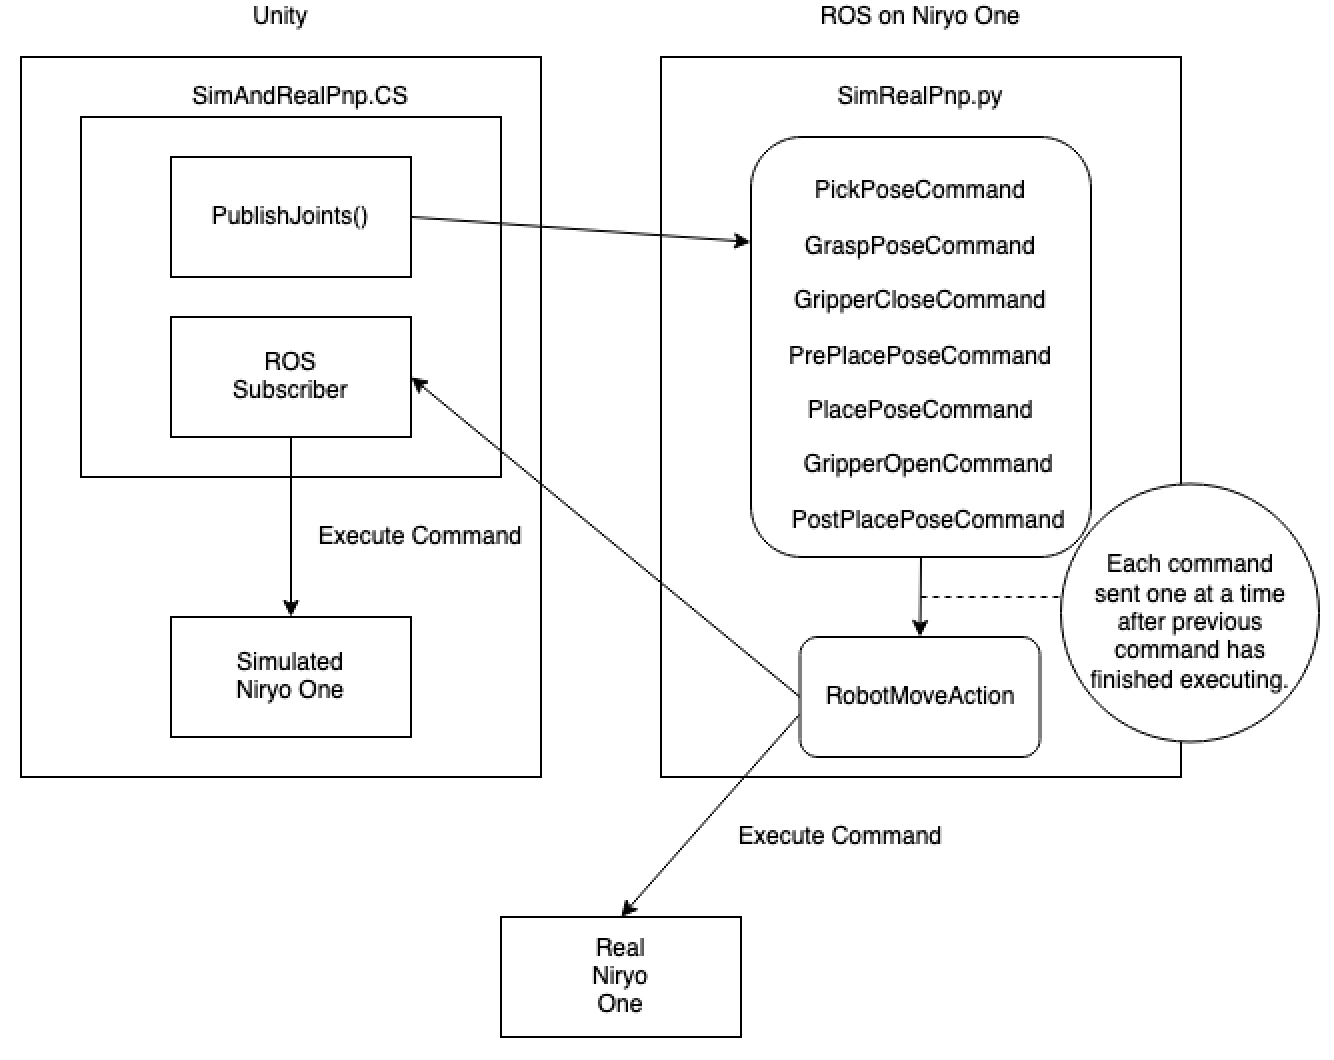
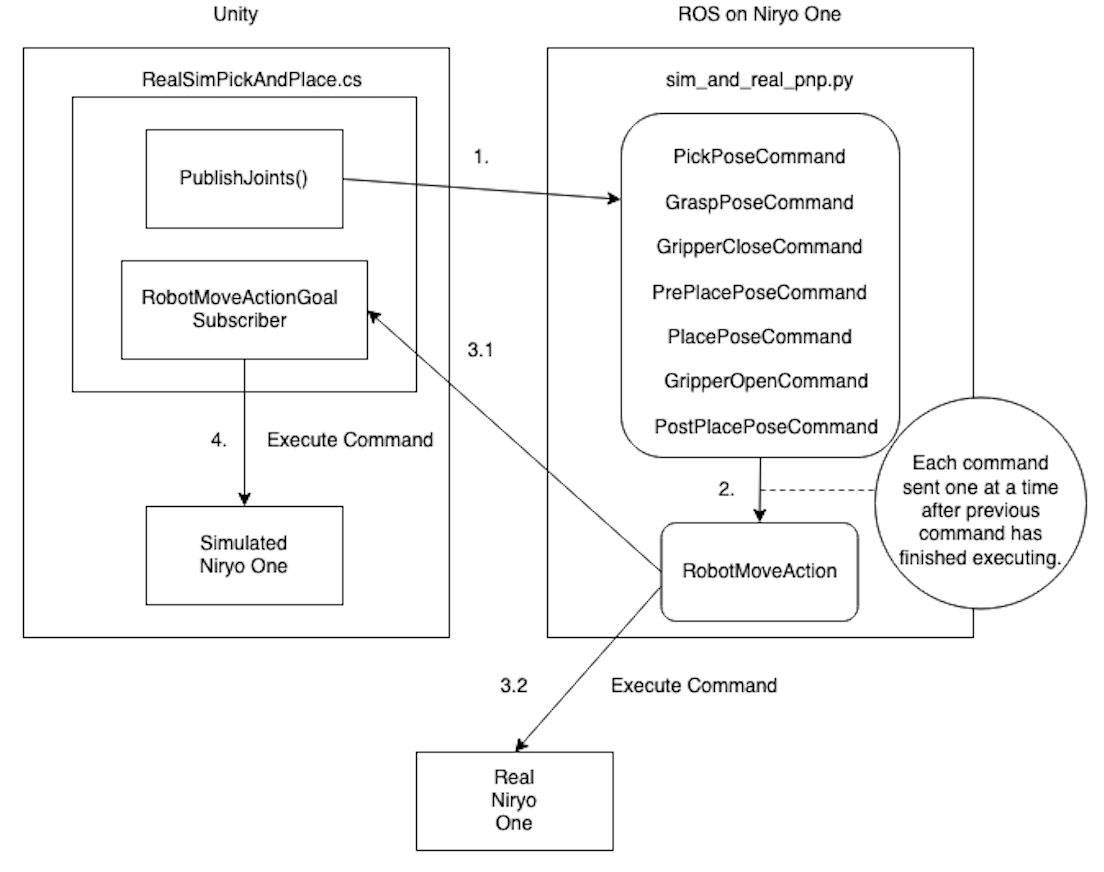
PR comments, gifs, images, and comments.

diff --git a/tutorials/pick_and_place/Scripts/RealSimPickAndPlace.cs b/tutorials/pick_and_place/Scripts/RealSimPickAndPlace.cs
@@ -73,7 +73,11 @@ public class RealSimPickAndPlace : MonoBehaviour
 
 
     /// <summary>
-    /// 
+    ///     Publish the robot's current joint configuration, the target object's
+    ///     position and rotation, and the target placement for the target object's
+    ///     position and rotation.
+    ///
+    ///     Includes conversion from Unity coordinates to ROS coordinates, Forward Left Up
     /// </summary>
     public void PublishJoints()
     {
@@ -146,9 +150,11 @@ public class RealSimPickAndPlace : MonoBehaviour
     }
 
     /// <summary>
-    /// 
+    ///   Execute robot commands receved from ROS Subscriber.
+    ///   Gripper commands will be executed immeditately wihle trajectories will be 
+    ///   executed in a coroutine.
     /// </summary>
-    /// <param name="robotAction"></param>
+    /// <param name="robotAction"> RobotMoveActionGoal of trajectory or gripper commands</param>
     void ExecuteRobotCommands(RobotMoveActionGoal robotAction)
     {
         if (robotAction.goal.cmd.cmd_type == TRAJECTORY_COMMAND_EXECUTION)
@@ -171,18 +177,13 @@ public class RealSimPickAndPlace : MonoBehaviour
     }
 
     /// <summary>
-    ///     Execute the returned trajectories from the MoverService.
+    ///     Execute trajectories from RobotMoveActionGoal topic.
     /// 
-    ///     The expectation is that the MoverService will return four trajectory plans,
-    ///         PreGrasp, Grasp, PickUp, and Place,
-    ///     where each plan is an array of robot poses. A robot pose is the joint angle values
-    ///     of the six robot joints.
-    /// 
-    ///     Executing a single trajectory will iterate through every robot pose in the array while updating the
-    ///     joint values on the robot.
+    ///     Execution will iterate through every robot pose in the trajectory pose 
+    ///     array while updating the joint values on the simulated robot.
     /// 
     /// </summary>
-    /// <param name="trajectories"></param>
+    /// <param name="trajectories"> The array of poses for the robot to execute</param>
     private IEnumerator ExecuteTrajectories(RobotTrajectory trajectories)
     {
         // For every robot pose in trajectory plan

diff --git a/tutorials/pick_and_place/ROS/src/niryo_moveit/scripts/sim_real_pnp.py b/tutorials/pick_and_place/ROS/src/niryo_moveit/scripts/sim_real_pnp.py
@@ -69,8 +69,6 @@ def plan_trajectory(move_group, destination_pose, start_joint_angles):
         """.format(destination_pose, start_joint_angles)
         raise Exception(exception_str)
 
-    # plan = planCompat(move_group.plan())
-
     trajectory_plan = TrajectoryPlan()
     trajectory_plan.trajectory = planCompat(move_group.plan())
 

diff --git a/tutorials/pick_and_place/4_pick_and_place.md b/tutorials/pick_and_place/4_pick_and_place.md
@@ -103,29 +103,33 @@ From here we see that the `RobotMoveGoal.RobotMoveCommand.ToolCommand.cmd_type` 
 
 ## Differences From Part 3
 
-**Part 3 Flow:**
+**Part 3  - Purely Simulated - Flow:**
 
 ![](img/4_old_flow.png)
 
-- `TrajectoryPlanner` sends ServiceMessage with robot pose, target cube coordinates, and target destination coordinates to `mover.py`.
-- `mover.py` calculates the four trajectories, adds them to an array, and returns the array to `TrajectoryPlanner`.
-- `TrajectoryPlanner` then executes the trajectories one at a time on the simulated Niryo One.
+1. `TrajectoryPlanner` sends ServiceMessage with robot pose, target cube coordinates, and target destination coordinates to `mover.py`.
+1. `mover.py` calculates the four trajectories, adds them to an array, and returns the array to `TrajectoryPlanner`.
+1. `TrajectoryPlanner` then executes the trajectories one at a time on the simulated Niryo One.
 
-**Part 4 Flow:**
+**Part 4 - Simulated and Real - Flow:**
 
 ![](img/4_new_flow.png)
 
-- `RealSimPickAndPlace.cs` publishes robot pose, target cube coordinates, and target destination coordinates to `sim_real_pnp` topic.
-- `sim_and_real_pnp.py,`as a ROS subscriber node, reads from the `sim_real_pnp` topic, plans the trajectories, and sends the action goals one at a time to `RobotMoveAction` server.
-- `RobotMoveAction` server publishes the goal messages along to the `robot_action/goal` topic.
+1. `RealSimPickAndPlace.cs` publishes robot pose, target cube coordinates, and target destination coordinates to `sim_real_pnp` topic.
+1. `sim_and_real_pnp.py,`as a ROS subscriber node, reads from the `sim_real_pnp` topic, plans the trajectories, and sends the action goals one at a time to `RobotMove` action server.
 
-- **Simultaneously**
-	- Simulated Niryo One, `RealSimPickAndPlace.cs`, subscriber reads from the action goal topic, `robot_action/goal`, and executes the trajectory or tool commands.
-	- `RobotMoveAction` server executes trajectory on Niryo One.
 
-**Part 4 Changes:**
+1. **Simultaneously**
+	1. `RobotMove` action server publishes the goal messages along to the `robot_action/goal` topic.
+	1. `RobotMove` action server executes trajectory on Niryo One.
 
-- Gripper command execution was previously implemented in `TrajectoryPlanner.cs` in part 3 and is now being managed by the `RobotMoveAction` server.
+1. Simulated Niryo One, `RealSimPickAndPlace.cs`, subscriber reads from the action goal topic, `robot_action/goal`, and executes the trajectory or tool commands.
+
+**Changes:**
+
+- The `MoverService`, `mover.py`,  has been replaced with a ROS Subscriber in `sim_and_real_pnp.py` but retains the trajectory planning capability.
+- Introduction of an action server, `RobotMove`, to schedule and exectute trajectories.
+- Gripper command execution was previously hard coded in `TrajectoryPlanner.cs` in part 3 but is now being managed by the `RobotMove` action server.
 - Extra poses have been added to make execution of the individual poses more apparent on the physical robot.
 
 
@@ -295,9 +299,9 @@ void Start()
 ---
 
 ## Update Niryo One URDFs
-- To account for the simulated Niryo One's position on a table, the URDF files on the Niryo One will need to be updated to reflect this change.
+> The world-space origin of the Niryo One is defined in its URDF file. The provided Niryo One URDF used in the previous tutorials has already been updated to reflect the position of the simulated Niryo One situated on top of the table. In order to have accurate trajectory planning the URDF files on the real Niryo One will need to be updated to reflect the simulated robot's position.
 
-	- The two files that will need to be updated are `niryo_one.urdf.xacro`  and `without_mesh_niryo_one.urdf.xacro` located in the `/home/niryo/catkin_ws/src/niryo_one_description/urdf/v2` directory.
+- The two files that will need to be updated are `niryo_one.urdf.xacro`  and `without_mesh_niryo_one.urdf.xacro` located in the `/home/niryo/catkin_ws/src/niryo_one_description/urdf/v2` directory.
 	- Look for the joint named `joint_world` and update the `origin`'s `xyz` to `0 0 0.63` to reflect that the simulated Niryo is placed at `0.63` on the Z axis.
 	
 	```xml

diff --git a/tutorials/pick_and_place/README.md b/tutorials/pick_and_place/README.md
@@ -15,8 +15,8 @@ This tutorial is designed such that you do not need prior experience with Unity 
   - [Part 0: ROS Setup](#part-0-ros-setup)
   - [Part 1: Create Unity scene with imported URDF](#part-1-create-unity-scene-with-imported-urdf)
   - [Part 2: ROS–Unity Integration](#part-2-rosunity-integration)
-  - [Part 3: Pick-and-Place In Unity](#part-3-pick-and-place)
-  - [Part 4: Pick-and-Place On Robot](#part-4-pick-and-place)
+  - [Part 3: Pick-and-Place In Unity](#part-3-pick-and-place-in-unity)
+  - [Part 4: Pick-and-Place On Robot](#part-4-pick-and-place-on-robot)
 
 ## Requirements
 
@@ -49,8 +49,8 @@ This part covers creating a TCP connection between Unity and ROS, generating C# 
 
 This part includes the preparation and setup necessary to run a pick-and-place task with known poses using MoveIt. Steps covered include creating and invoking a motion planning service in ROS, moving a Unity Articulation Body based on a calculated trajectory, and controlling a gripping tool to successfully grasp and drop an object.
 
----
-
 ## [Part 4: Pick-and-Place On Robot](4_pick_and_place.md)
 
-TODO: Add gif
+<img src="img/4_pick_and_place.gif" width="400"/>
+
+This part is going to be a little different than the previous tutorials in that it will utilize a real Niryo One robot. We do not assume that everyone has access to a Niryo One outside of simulation. As such this tutorial should mostly be used as a reference for how to move from executing commands on a simulated robot to a real one.

diff --git a/tutorials/pick_and_place/3_pick_and_place.md b/tutorials/pick_and_place/3_pick_and_place.md
@@ -68,7 +68,7 @@ Steps covered in this tutorial includes invoking a motion planning service in RO
 
     > This is similar to the `SourceDestinationPublisher.Publish()` function, but with a few key differences. There is an added `pickPoseOffset` to the `pick` and `place_pose` `y` component. This is because the calculated trajectory to grasp the `target` object will hover slightly above the object before grasping it in order to avoid potentially colliding with the object. Additionally, this function calls `CurrentJointConfig()` to assign the `request.joints_input` instead of assigning the values individually.
 
-    > The `response.trajectories` are received in the `TrajectoryResponse()` callback, as defined in the `ros.SendServiceMessage` parameters. These trajectories are passed to `ExecuteTrajectories()` below:
+    > The `response.trajectories` are received in the `TrajectoryResponse()` callback, as defined in the `ros.SendServiceMessage` parameters. These trajectories are passed to `ExecuteTrajectories()` and executed as a [coroutine](https://docs.unity3d.com/Manual/Coroutines.html):
 
     ```csharp
     private IEnumerator ExecuteTrajectories(MoverServiceResponse response)
